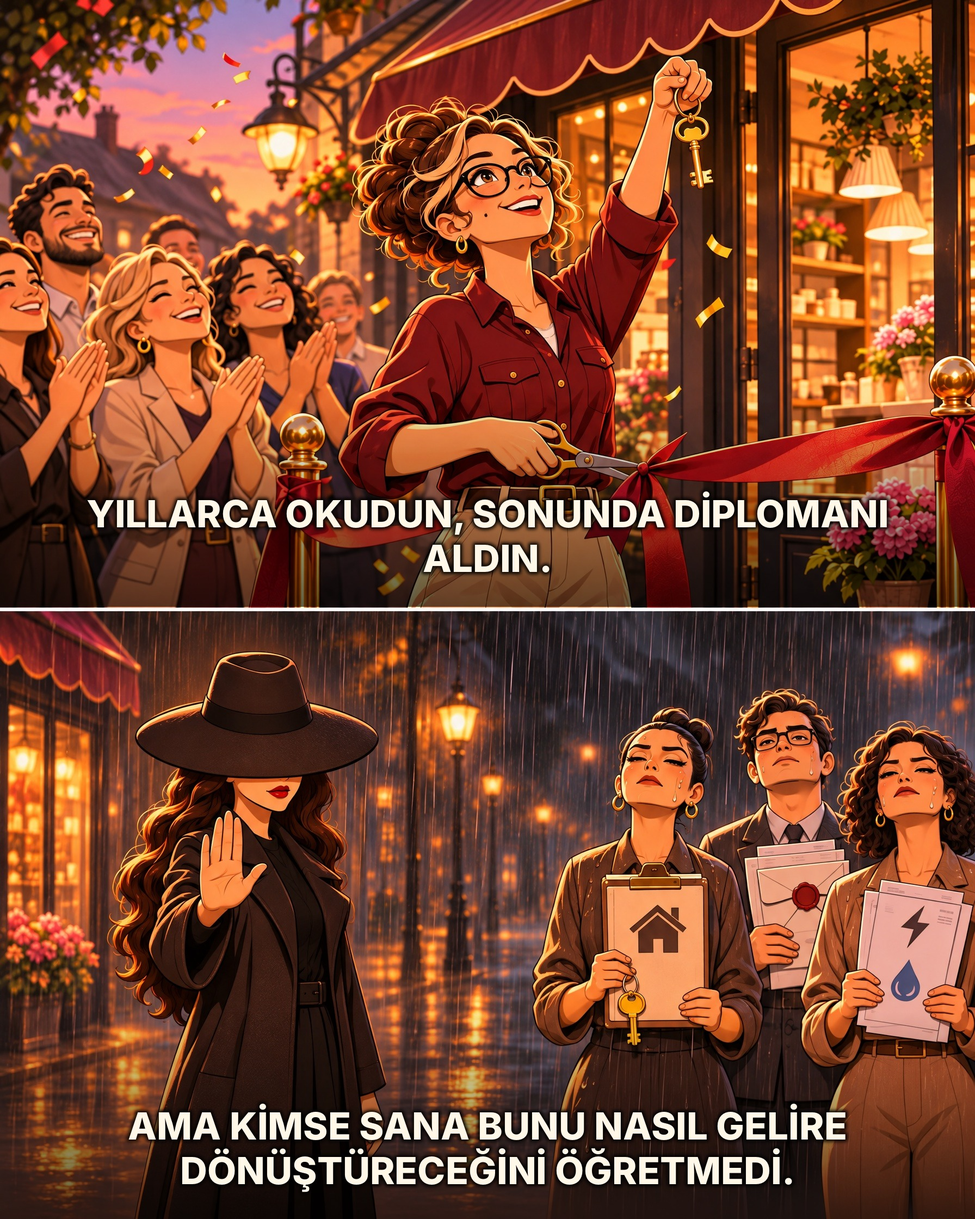
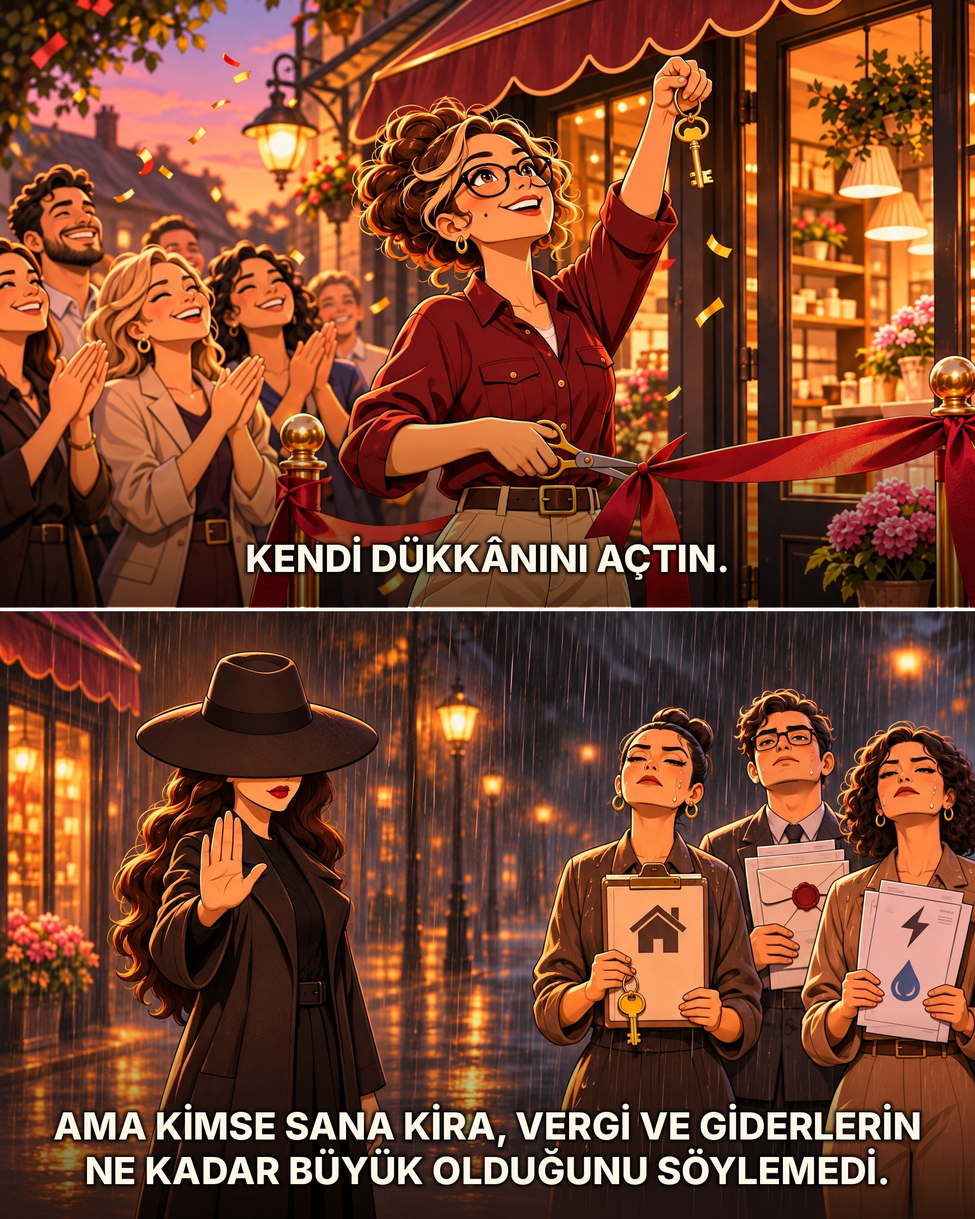
Gönderi 5: sayfa 2 ve 3 metinleri sahnelerle eşleşecek şekilde yer değiştirildi
Claude-Session: https://claude.ai/code/session_01DJnELUg2datGduMzoawH2g

Changed region(s): [[0.0312, 0.9062, 0.9688, 1.0], [0.0938, 0.4062, 0.9375, 0.4688]]

diff --git a/dark-money/tools/post5_yazi.py b/dark-money/tools/post5_yazi.py
@@ -7,8 +7,8 @@ CREAM=(255,247,232); GOLD=(240,196,104)
 def up(s): return s.replace("i","İ").replace("ı","I").upper()
 
 T={1:("Sen işine bütün emeğini koyarsın…","Ama kazancın büyük kısmı başkasının cebine girer."),
-   2:("Yıllarca okudun, sonunda diplomanı aldın.","Ama kimse sana bunu nasıl gelire dönüştüreceğini öğretmedi."),
-   3:("Kendi dükkânını açtın.","Ama kimse sana kira, vergi ve giderlerin ne kadar büyük olduğunu söylemedi."),
+   2:("Kendi dükkânını açtın.","Ama kimse sana kira, vergi ve giderlerin ne kadar büyük olduğunu söylemedi."),
+   3:("Yıllarca okudun, sonunda diplomanı aldın.","Ama kimse sana bunu nasıl gelire dönüştüreceğini öğretmedi."),
    4:("Ne kadar çok çalışırsan çalış, zamanın hep başkasının kontrolünde…","Maaş alır, faturaları öder ve yeniden çalışmaya dönersin."),
    5:("Seni yerinde tutmak için artık zincirlere ihtiyaçları yok…","Ekran başında geçirdiğin zaman, bunu senin yerine yapıyor."),
    6:("Paranın nereye gideceğini belirleyen bir planın olmalı.","İhtiyaçlarını, birikimini, yatırımını sen yönetmezsen paran senin yerine karar verir.")}
